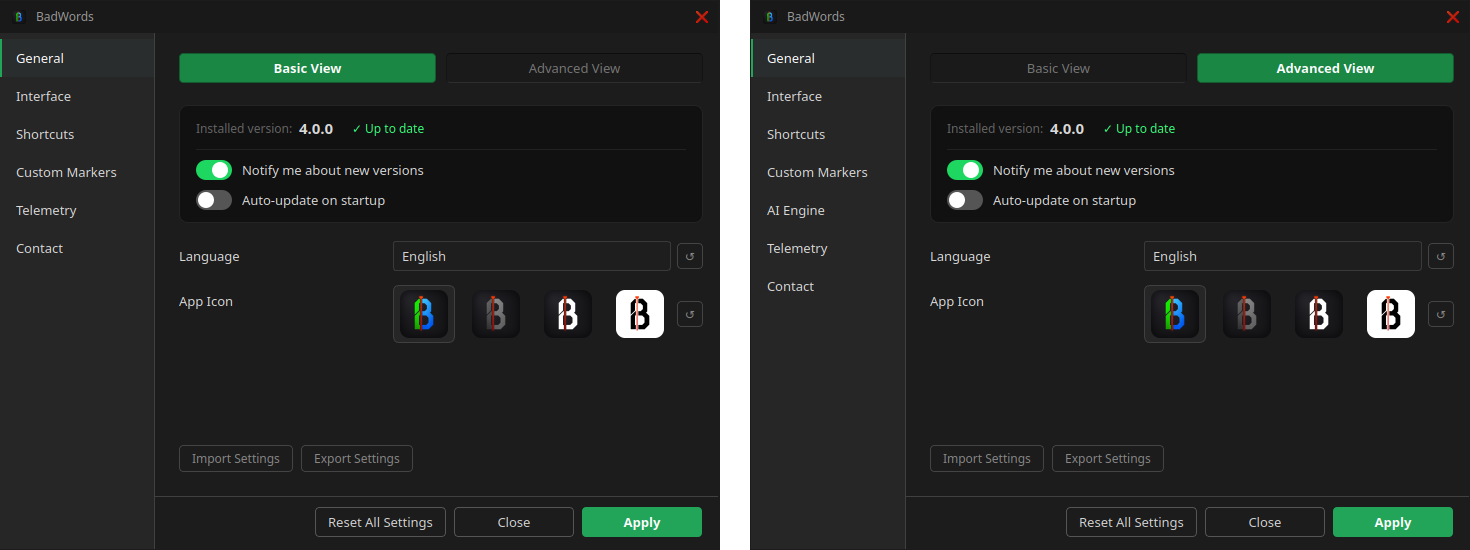
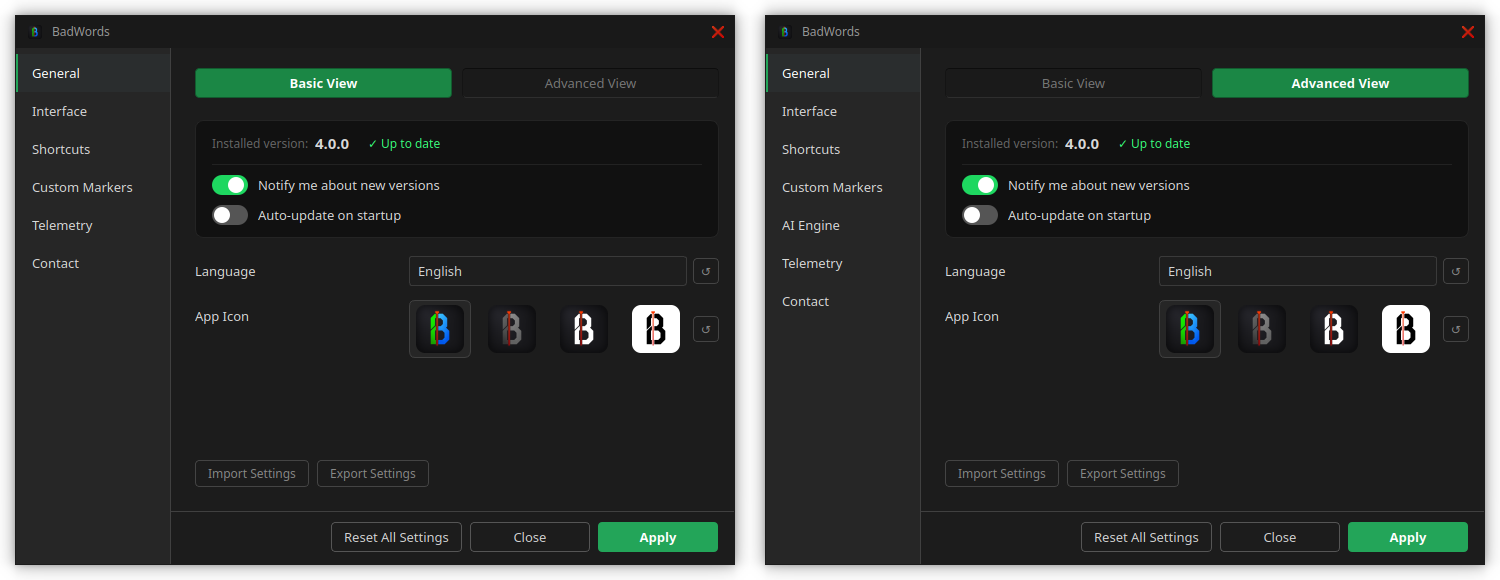
docs: refine settings descriptions for auto-update, languages, backup, chunks, and DaVinci track sync

diff --git a/docs/USER_GUIDE.md b/docs/USER_GUIDE.md
@@ -402,7 +402,7 @@ The **Main Panel** serves as the primary control center for manual word painting
 <img align="right" src="images/07b_sidebar_tools.png" alt="Sidebar Main Lower" width="285">
 
 #### Lower Section: Favorites & Timeline Export
-- **Analysis Duration Indicator:** Displays exact stats on transcription processing time (e.g. *Analyzed in: 0.18min*).
+- **Analysis Duration Indicator:** Displays exact stats on transcription processing time (e.g. *Analyzed in: 0:48min*).
 - **Pinned Favorites:** Dynamically reveals any tools or toggles you have starred with the Star `★` button on the *Assembly* Sidebar Panel (such as one-click auto-cut toggles), letting you control them without leaving the Main tab.
 - **`Assemble` Button:** Clicking it triggers the final cut process in DaVinci Resolve. Clicking the arrow button opens the expandable track configuration menu:
   - **Audio Tracks:**
@@ -556,6 +556,7 @@ The bottom panel of the editor houses the **Audio Preview Bar**, eliminating gue
 ---
 
 <br>
+
 ## 5. Settings & Preferences <img src="../assets/layout/settings.png" width="24" height="24" valign="middle">
 
 Clicking the Gear icon in the bottom-left corner of the window (or pressing **`Escape`**) opens the **Settings Dialog**. The dialog allows you to toggle between **Basic View** (which presents a clean set of essential settings sufficient for the vast majority of workflows) and **Advanced View** (which expands specific tabs with more parameters and unlocks the dedicated AI Engine tab).
@@ -583,19 +584,18 @@ The **General** tab allows you to configure core application settings, including
 
 **Updates & Version Card:**
 - Displays your currently installed version and checks for updates automatically.
-- **`Update Now` Button:** Appears whenever a new patch or version is released on GitHub/GitLab, allowing you to update in one click without leaving the app.
+- **`Update Now` Button:** Appears whenever a new patch or version is released on GitHub, allowing you to update in one click.
 - **`Check for updates on startup` Toggle:** Automatically checks remote repositories for new releases on launch.
-- **`Auto-update on startup` Toggle:** Automatically downloads and applies updates silently in the background before opening.
+- **`Auto-update on startup` Toggle:** Automatically downloads and installs new releases in the background upon launch. Due to DaVinci Resolve script runtime constraints, newly installed updates take effect on the next application launch (simply close and reopen BadWords to use the new version).
 
 **Language (`Language`):**
-- Switches the entire BadWords user interface between supported languages (English, Polish, German, French, Spanish, Italian, Japanese, Chinese, etc.).
+- Switches the entire BadWords user interface between supported languages: English, Polish (*Polski*), German (*Deutsch*), Spanish (*Español*), French (*Français*), Italian (*Italiano*), Portuguese (*Português*), Dutch (*Nederlands*), Ukrainian (*Українська*), and Russian (*Русский*).
 
 **App Icon Style:**
 - Choose between 4 distinct window icon designs (**Default**, **Monochrome**, **White B**, **White**) to match your system theme.
 
 **Settings Backup:**
-- **`Import Settings`:** Restores your preferences from a saved `.json` file.
-- **`Export Settings`:** Exports your entire configuration to migrate between computers.
+- **`Import Settings` / `Export Settings`:** Exports or restores your preferences via a `.json` backup file to migrate configurations between computers. *(Note: This feature is in early development; while basic preferences transfer reliably, minor formatting quirks may occur on import).*
 
 <br>
 
@@ -614,28 +614,29 @@ The **Interface** tab lets you customize how your transcript looks and behaves, 
   <img src="images/11b_settings_transcript.png" alt="Settings Transcript Tab" width="90%">
 </p>
 
+**`Always on Top` Toggle:**
+- Forces BadWords to float permanently above DaVinci Resolve and other windows.
+
 **Display Mode:**
 - **`Segmented Blocks`:** Groups sentences into structured dialogue blocks with timestamp headers `[00:14]` for easy skimming.
-- **`Continuous Flow`:** Displays transcription as continuous running prose.
+- **`Continuous Flow`:** Displays transcription as one continuous text block (paragraph).
+
+**Chunk Segmentation Parameters (for Segmented Mode):**
+*(In Segmented Blocks mode, a "chunk" represents a single displayed line/block of dialogue with its own timestamp header).*
+- **Max Chunk Words (default `30`):** Target maximum number of words per block before attempting a line break.
+- **Chunk Lookahead (default `3`):** Number of additional words the engine searches past `Max Chunk Words` to find a natural punctuation mark (`.`, `?`, `!`, `,`). If punctuation is found within this window, the chunk is extended up to that punctuation mark (making the effective maximum word count `33` instead of `30`).
+- **Min Chunk Characters (default `7`):** Minimum character count threshold before a new chunk is permitted.
 
 **Transcript Typography:**
 - **Font Family:** Select any font installed on your operating system.
 - **Font Size (pt):** Adjust text scale (8pt to 48pt).
 - **Line Spacing (px):** Adjust vertical padding between lines of text.
-- **Live Preview Box:** Instantly previews typography, colors, and line height adjustments before applying.
-
-**`Always on Top` Toggle:**
-- Forces BadWords to float permanently above DaVinci Resolve and other windows.
-
-**Chunk Segmentation Parameters (for Segmented Mode):**
-- **Max Chunk Words (default `30`):** Maximum number of words in a sentence block before forcing a break.
-- **Chunk Lookahead (default `3`):** Number of words the engine looks ahead to find natural punctuation points (`.`, `?`, `!`) before breaking a line.
-- **Min Chunk Characters (default `7`):** Minimum character count threshold before a new chunk is permitted.
+- **Live Preview Box:** Instantly previews typography and line height adjustments before applying.
 
 **DaVinci Resolve Synchronization:**
-- **`Sync playhead with DaVinci Resolve chapters` Toggle:** Keeps playhead position synchronized between Resolve and BadWords.
-- **`Preserve XML track order` Toggle:** Guarantees strict timeline track order preservation during XML import/export.
-- **`Precise Timestamps` Toggle:** Switches timestamps from rounded seconds (`[01:08]`) to full millisecond precision (`[01:08.432]`).
+- **`Sync DaVinci Timeline on Chapter Switch` Toggle:** When switching between project versions in BadWords (via the top titlebar Versions dropdown), DaVinci Resolve automatically switches its active timeline view to the timeline assembled for that version. If disabled, Resolve's timeline view does not change when switching versions in BadWords.
+- **`Preserve original track order` Toggle:** Maintains the exact source track numbers in DaVinci Resolve. For example, if you assemble only audio track `A2`, by default Resolve places it onto `A1`; with this option enabled, it remains strictly on `A2` (leaving `A1` empty). Applies to both audio and video tracks.
+- **`Precise Timestamps` Toggle:** Switches timestamps from rounded seconds (e.g. **`[01:08]`**) to full millisecond precision (e.g. **`[01:08.432]`**).
 
 <br>
 
@@ -648,7 +649,7 @@ The **Interface** tab lets you customize how your transcript looks and behaves, 
 The **Shortcuts** tab enables you to customize keyboard and mouse bindings for word painting, playback controls, navigation, and search.
 
 <p align="center">
-  <img src="images/11c_settings_shortcuts.png" alt="Settings Shortcuts Tab" width="90%">
+  <img src="images/11c_settings_shortcuts.png" alt="Settings Shortcuts Tab" width="60%">
 </p>
 
 **Conflict Detection:**
@@ -678,7 +679,7 @@ The **Shortcuts** tab enables you to customize keyboard and mouse bindings for w
 The **Custom Markers** tab allows you to create, organize, and reorder custom color markers mapped to DaVinci Resolve clip colors for specialized workflows.
 
 <p align="center">
-  <img src="images/11d_settings_markers.png" alt="Settings Custom Markers Tab" width="90%">
+  <img src="images/11d_settings_markers.png" alt="Settings Custom Markers Tab" width="60%">
 </p>
 
 **Custom Marker List:**
@@ -703,12 +704,13 @@ The **Custom Markers** tab allows you to create, organize, and reorder custom co
 
 The **AI Engine** tab provides deep control over neural speech recognition, hardware acceleration (GPU/CPU), and acoustic Whisper inference parameters.
 
+> [!NOTE]  
+> The **AI Engine Tab** is unlocked exclusively in **Advanced View** for users who want complete control over neural network inference and Faster-Whisper decoding behavior.
+
 <p align="center">
   <img src="images/11e_settings_ai_engine.png" alt="Settings AI Engine Tab" width="90%">
 </p>
 
-> [!NOTE]  
-> The **AI Engine Tab** is unlocked exclusively in **Advanced View** for users who want complete control over neural network inference and Faster-Whisper decoding behavior.
 
 **Hardware & Precision:**
 - **Device (`Auto`, `GPU`, `CPU`):** Selects whether AI transcription executes on dedicated GPU hardware or system CPU.
@@ -737,7 +739,7 @@ The **AI Engine** tab provides deep control over neural speech recognition, hard
 The **Telemetry** tab allows you to manage anonymous diagnostics and privacy options, and provides direct links to community resources.
 
 <p align="center">
-  <img src="images/11f_settings_telemetry.png" alt="Settings Telemetry Tab" width="90%">
+  <img src="images/11f_settings_telemetry.png" alt="Settings Telemetry Tab" width="60%">
 </p>
 
 **Privacy & Diagnostic Settings:**
@@ -753,12 +755,12 @@ The **Telemetry** tab allows you to manage anonymous diagnostics and privacy opt
 
 <br>
 
-### 5.7 ***Support*** Tab
+### 5.7 ***Contact*** Tab
 
-The **Support** tab lets you locate local debug log files for troubleshooting and submit diagnostic support tickets directly to the developer.
+The **Contact** tab lets you locate local debug log files for troubleshooting and submit diagnostic support tickets directly to the developer.
 
 <p align="center">
-  <img src="images/11g_settings_support.png" alt="Settings Support Tab" width="90%">
+  <img src="images/11g_contact_tab.png" alt="Contact Tab" width="60%">
 </p>
 
 **Debug Logs:**
